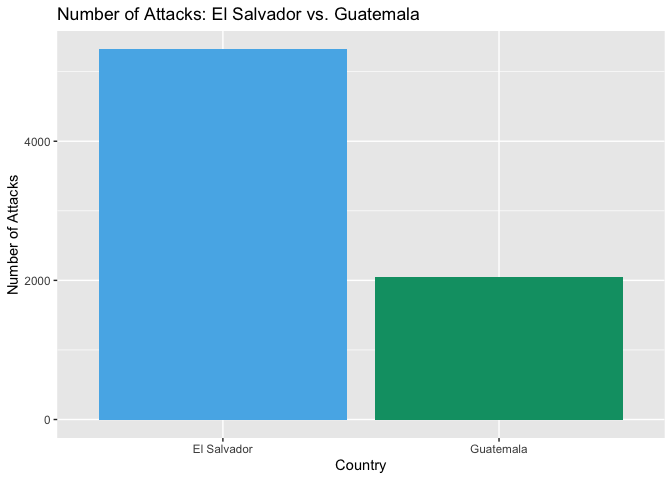
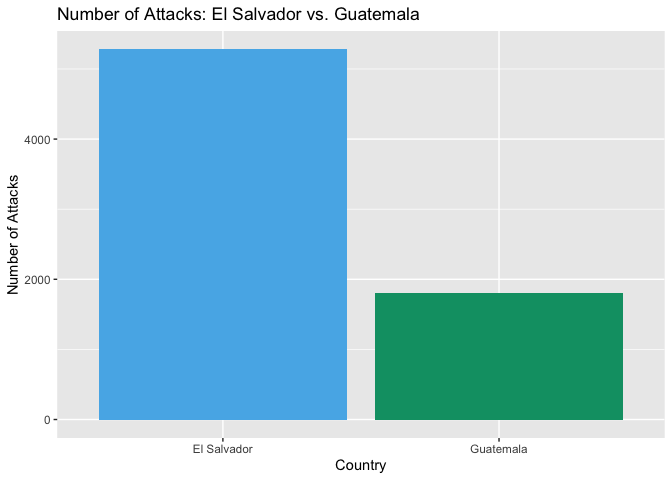
updated

Changed region(s): [[0.5312, 0.5625, 0.9375, 0.625], [0.0312, 0.5625, 0.0938, 0.5938], [0.0312, 0.2812, 0.0938, 0.3125]]

diff --git a/Terror_Latin_America.md b/Terror_Latin_America.md
@@ -6,33 +6,68 @@ Chelsea Linares
 <img src="Voces-Inocentes.jpeg" style="display: block; margin: auto;" />
 
 ``` r
-GT<-read.csv("~/downloads/globalterrorismdb_0718dist.csv")
+GT<-read.csv("GT.csv") #upload
+head(GT)
 ```
 
-## Clean-Up Data
+    ##        eventid iyear imonth iday extended country country_txt    provstate
+    ## 1 197001200001  1970      1   20        0      83   Guatemala    Guatemala
+    ## 2 197003060001  1970      3    6        1      83   Guatemala    Guatemala
+    ## 3 197003310001  1970      3   31        1      83   Guatemala    Guatemala
+    ## 4 197007110001  1970      7   11        0      83   Guatemala      Unknown
+    ## 5 197101210001  1971      1   21        0      83   Guatemala      Unknown
+    ## 6 197211050001  1972     11    5        0      61 El Salvador San Salvador
+    ##             city multiple success attacktype1             attacktype1_txt
+    ## 1 Guatemala City        0       1           1               Assassination
+    ## 2 Guatemala City        0       1           6 Hostage Taking (Kidnapping)
+    ## 3 Guatemala City        0       1           6 Hostage Taking (Kidnapping)
+    ## 4        Unknown        0       1           6 Hostage Taking (Kidnapping)
+    ## 5        Unknown        0       1           2               Armed Assault
+    ## 6   San Salvador        0       1           3           Bombing/Explosion
+    ##   targtype1           targtype1_txt
+    ## 1         7 Government (Diplomatic)
+    ## 2         7 Government (Diplomatic)
+    ## 3         7 Government (Diplomatic)
+    ## 4         1                Business
+    ## 5         8 Educational Institution
+    ## 6         6     Airports & Aircraft
+    ##                                          target1
+    ## 1                      Bodyguard, British Consul
+    ## 2  Sean Holley, U.S. labor attache, U.S. embassy
+    ## 3 Count Karl Von Spreti, ambassador to Guatemala
+    ## 4                                    businessman
+    ## 5                                    U.S. School
+    ## 6                      Pan Am Main Ticket Office
+    ##                                   gname weaptype1 weaptype1_txt
+    ## 1                               Unknown        13       Unknown
+    ## 2 Rebel Armed Forces of Guatemala (FAR)         5      Firearms
+    ## 3 Rebel Armed Forces of Guatemala (FAR)        13       Unknown
+    ## 4 Rebel Armed Forces of Guatemala (FAR)        13       Unknown
+    ## 5                               Unknown         5      Firearms
+    ## 6                               Unknown         6    Explosives
+    ##                    weapsubtype1_txt        weapdetail property
+    ## 1                                                            0
+    ## 2 Automatic or Semi-Automatic Rifle   Submachine guns        0
+    ## 3                                                            0
+    ## 4                                                            0
+    ## 5 Automatic or Semi-Automatic Rifle Automatic firearm        1
+    ## 6            Unknown Explosive Type         Explosive        1
+    ##                propextent_txt ishostkid
+    ## 1                                     0
+    ## 2                                     1
+    ## 3                                     1
+    ## 4                                     1
+    ## 5                     Unknown         0
+    ## 6 Minor (likely < $1 million)         0
 
-Our data is nationwide so we will tidy it to only display attacks that
-happened in Guatemala and El Salvador. Also, there’s around 135
-variables, many of which are redundant or unnecessary for our analysis
-so we will scrape them. Just to make our visuals clearer, I merged some
-of the terrorist groups together into an ‘Other’ category because there
-were few times this group attacked compared to other groups. At the end,
-we remain with 26 variables.
+## Preparing Data
+
+While our data has been cleaned through SQL, we need to ensure
+categorical variables are treated as factors and text-based data is
+treated as categorical data. This is crucial so our analysis is
+accurate.
 
 ``` r
-#only use data from Guatemala and El Salvador
-#region 2= carribean and latin america
-GT<-GT %>%
-  filter(region=='2', country_txt=='Guatemala'|country_txt=='El Salvador')
-
-#removing columns with less than 10% data
-GT<-GT[ , colSums(is.na(GT))<.1] 
-
-#only keep top 15 terrorist groups, the rest lump into an other category
-GT$gname<- fct_lump_min(GT$gname, min=15, other_level = "Other")
-
-GT<-GT[c(1,2,3,4,6,8,9,12,13,23,24,26,27,30,31,33,45,57,58,59,66,67,68,70,72,74)] #predictors to keep
-
 #turn into characters and factor
 GT$eventid<-as.factor(GT$eventid)
 GT$imonth<-as.factor(GT$imonth)
@@ -53,7 +88,6 @@ GT$gname<-as.factor(GT$gname)
 GT$weaptype1<-as.factor(GT$weaptype1)
 GT$property<-as.factor(GT$property)
 GT$ishostkid<-as.factor(GT$ishostkid)
-GT$kidhijcountry<-as.character(GT$kidhijcountry)
 ```
 
 ### Defining Variables
@@ -126,12 +160,6 @@ but \<1 billion), Minor (likely \<1 million), or Unknown.
 `ishostkid`: whether or not the victim was taken as hostage or kidnapped
 during the incident.
 
-`kidhijcountry`: the country in which the hostage taking or hijacking
-was resolved or ended.
-
-`hostkidoutcome_txt`: the outcome of hostages or kidnap victims if there
-are any during the attacks.
-
 ## Visualizations
 
 Let’s do a chi-square test to see if the attack frequencies between
@@ -147,7 +175,7 @@ chisq.test(GS)
     ##  Chi-squared test for given probabilities
     ## 
     ## data:  GS
-    ## X-squared = 1450.9, df = 1, p-value < 2.2e-16
+    ## X-squared = 1702.4, df = 1, p-value < 2.2e-16
 
 Since the p-value \< .05, we reject the null hypothesis. This indicates
 there is a significant difference in the frequency of attacks between
@@ -172,17 +200,17 @@ GT%>%
 
     ##                                               gname    n
     ## 1        Armed Forces of National Resistance (FARN)   38
-    ## 2                                       Death Squad   58
-    ## 3  Farabundo Marti National Liberation Front (FMLN) 3330
+    ## 2                                       Death Squad   56
+    ## 3  Farabundo Marti National Liberation Front (FMLN) 3329
     ## 4          February 28 Popular League (El Salvador)   15
     ## 5                              Left-Wing Guerrillas   18
     ## 6                              Left-Wing Terrorists   17
-    ## 7                  People's Liberation Forces (FPL)  167
-    ## 8   People's Revolutionary Army (ERP) (El Salvador)   64
-    ## 9                  Popular Revolutionary Bloc (BPR)   38
-    ## 10                 Secret Anti-Communist Army (ESA)    6
-    ## 11                                          Unknown 1458
-    ## 12                                            Other  111
+    ## 7                                             Other  102
+    ## 8                  People's Liberation Forces (FPL)  167
+    ## 9   People's Revolutionary Army (ERP) (El Salvador)   64
+    ## 10                 Popular Revolutionary Bloc (BPR)   38
+    ## 11                 Secret Anti-Communist Army (ESA)    6
+    ## 12                                          Unknown 1429
 
 ``` r
 GT%>%
@@ -192,18 +220,18 @@ GT%>%
 
     ##                                                  gname    n
     ## 1                    31 January People's Front (FP-31)   17
-    ## 2                                          Death Squad   69
+    ## 2                                          Death Squad   45
     ## 3     Farabundo Marti National Liberation Front (FMLN)    5
     ## 4                         Guatemalan Labor Party (PGT)   22
-    ## 5       Guatemalan National Revolutionary Unity (URNG)  131
-    ## 6                     Guerrilla Army of the Poor (EGP)  155
-    ## 7                                 Left-Wing Guerrillas   14
+    ## 5       Guatemalan National Revolutionary Unity (URNG)   85
+    ## 6                     Guerrilla Army of the Poor (EGP)  153
+    ## 7                                 Left-Wing Guerrillas   13
     ## 8                                 Left-Wing Terrorists    8
-    ## 9                Rebel Armed Forces of Guatemala (FAR)   36
-    ## 10 Revolutionary Organization of People in Arms (ORPA)  115
-    ## 11                    Secret Anti-Communist Army (ESA)   13
-    ## 12                                             Unknown 1413
-    ## 13                                               Other   52
+    ## 9                                                Other   41
+    ## 10               Rebel Armed Forces of Guatemala (FAR)   36
+    ## 11 Revolutionary Organization of People in Arms (ORPA)  115
+    ## 12                    Secret Anti-Communist Army (ESA)   13
+    ## 13                                             Unknown 1253
 
 With this bar graph, we see that from 1970-2017 there were significantly
 more attacks in El Salvador than Guatemala. El Salvador had more than
